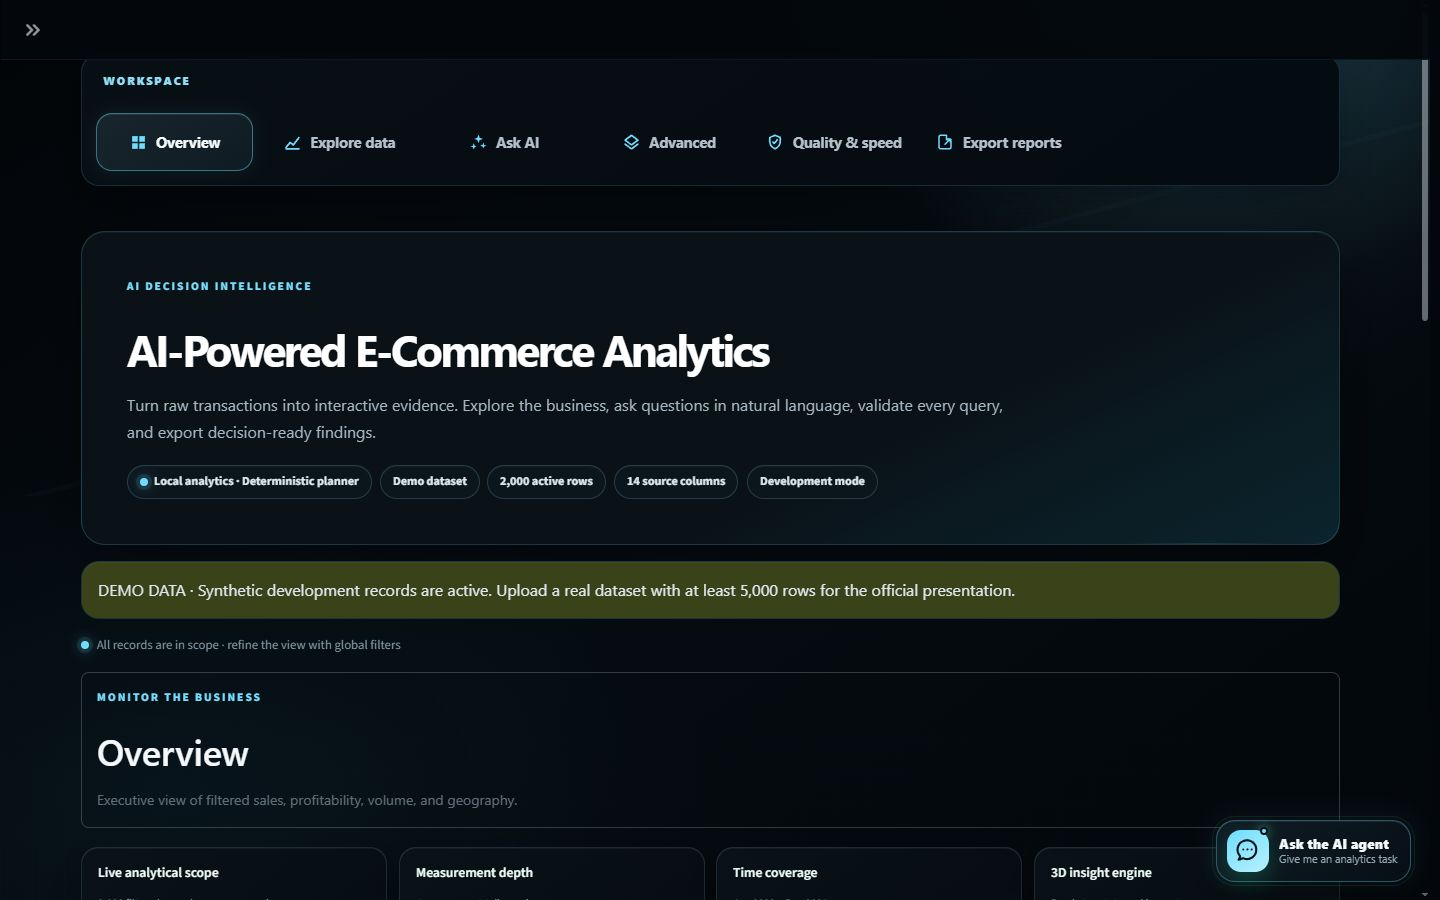
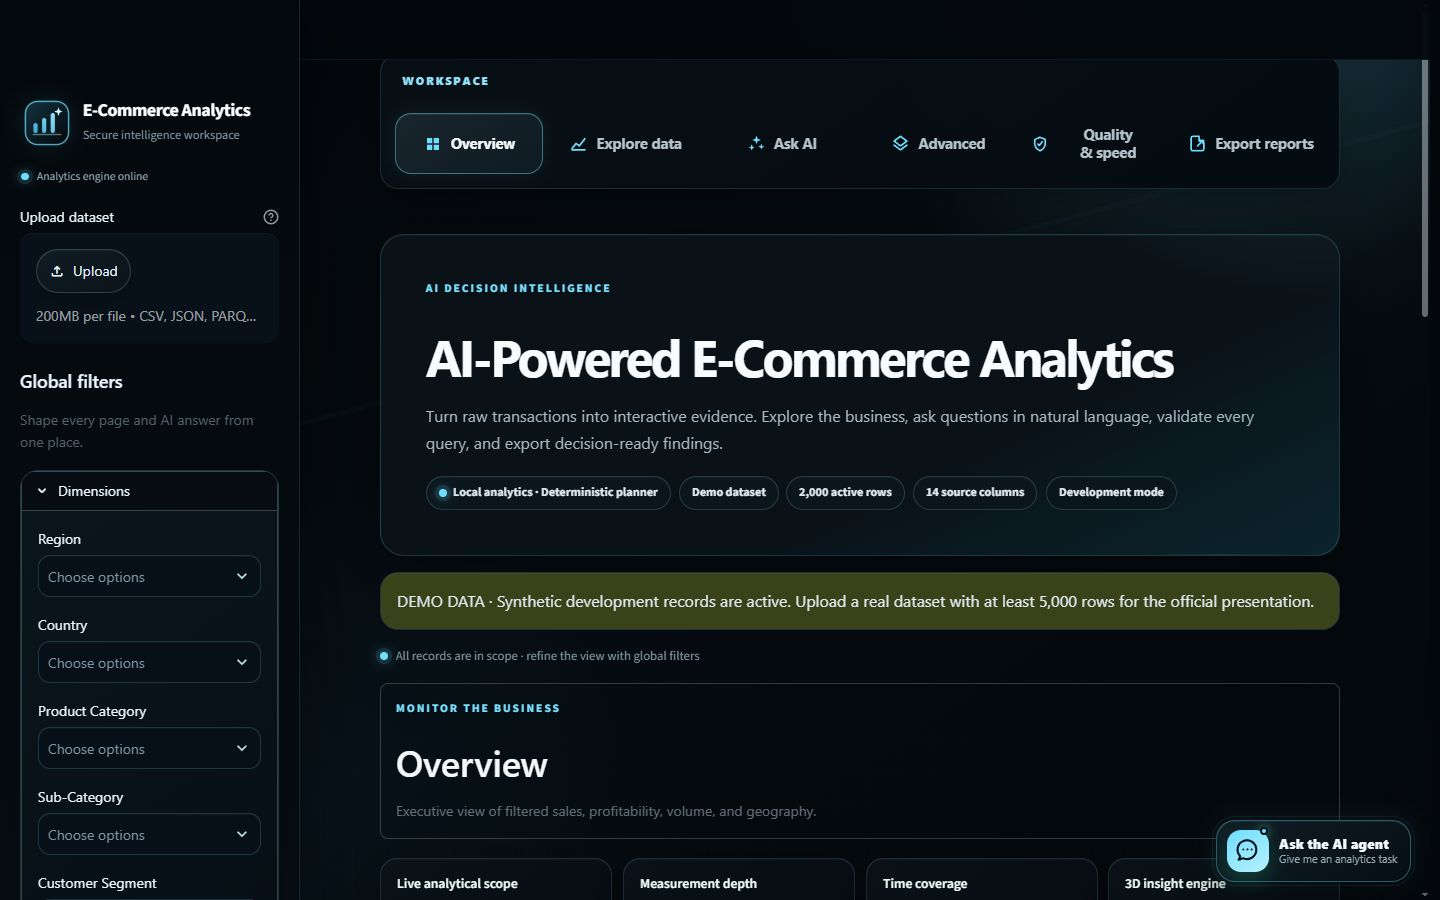
fix: complete midnight theme across app

diff --git a/tests/e2e/production.spec.ts b/tests/e2e/production.spec.ts
@@ -2,7 +2,7 @@ import { expect, test } from "@playwright/test";
 import { expectNoHorizontalOverflow, openApplication, selectSection } from "./helpers";
 
 test("deployed release is healthy and all workspaces are reachable", async ({ page }) => {
-  const expectedVersion = process.env.E2E_EXPECTED_VERSION || "v1.14.0";
+  const expectedVersion = process.env.E2E_EXPECTED_VERSION || "v1.14.1";
   const browserErrors: string[] = [];
   page.on("console", (message) => message.type() === "error" && browserErrors.push(message.text()));
   page.on("pageerror", (error) => browserErrors.push(error.message));

diff --git a/tests/e2e/app.spec.ts b/tests/e2e/app.spec.ts
@@ -124,7 +124,7 @@ test.describe("local production interface", () => {
     page.on("console", (message) => message.type() === "error" && browserErrors.push(message.text()));
     page.on("pageerror", (error) => browserErrors.push(error.message));
     const app = await openApplication(page);
-    await expect(app.locator('[data-app-version="v1.14.0"]')).toBeVisible();
+    await expect(app.locator('[data-app-version="v1.14.1"]')).toBeVisible();
     await expectBalancedNavigation(app);
     await expectNoHorizontalOverflow(app);
     for (const [name, heading] of [

diff --git a/src/ui/theme.py b/src/ui/theme.py
@@ -1686,6 +1686,77 @@ APP_CSS = r"""
     .agent-launcher-copy small { color:#94aab6; }
     .agent-launcher-status { border-color:#071018; background:#70ddff; }
 
+    /* Final theme normalization for forms, feedback, tables, and utility surfaces. */
+    [data-testid="stChatMessage"] {
+        border-color:rgba(112,221,255,.16);
+        background:linear-gradient(145deg,#0b161e,#081119);
+    }
+    [data-testid="stChatInput"] {
+        border-color:rgba(112,221,255,.34) !important;
+        background:#08131b !important;
+        box-shadow:0 16px 42px rgba(0,0,0,.32),0 0 20px rgba(112,221,255,.065);
+    }
+    .st-key-ai_task_form,
+    [data-testid="stForm"]:has(textarea[aria-label="Describe the task or outcome"]) {
+        border-color:rgba(112,221,255,.18) !important;
+        background:linear-gradient(145deg,#0b161e,#071018) !important;
+        box-shadow:inset 0 1px 0 rgba(255,255,255,.04),0 16px 34px rgba(0,0,0,.20);
+    }
+    .st-key-ai_task_form [data-testid="stTextAreaRootElement"],
+    [data-testid="stForm"]:has(textarea[aria-label="Describe the task or outcome"]) [data-testid="stTextAreaRootElement"] {
+        border-color:rgba(112,221,255,.22) !important;
+        background:#071018 !important;
+    }
+    .st-key-ai_task_form [data-testid="stTextAreaRootElement"]:focus-within,
+    [data-testid="stForm"]:has(textarea[aria-label="Describe the task or outcome"]) [data-testid="stTextAreaRootElement"]:focus-within {
+        border-color:rgba(112,221,255,.68) !important;
+        background:#0a1720 !important;
+        box-shadow:0 0 0 3px rgba(112,221,255,.11),0 0 22px rgba(112,221,255,.07);
+    }
+    textarea[aria-label="Describe the task or outcome"] { color:#eef8fb !important; }
+    .ai-scope-note {
+        border-color:rgba(112,221,255,.14);
+        color:#a8bac4;
+        background:rgba(55,139,169,.08);
+    }
+    .ai-scope-note span { color:#70ddff; filter:drop-shadow(0 0 6px rgba(112,221,255,.34)); }
+    .composer-guidance { color:#91a7b3; }
+    .agent-launcher::before { border-color:rgba(112,221,255,.16); }
+    .agent-launcher:focus-visible { outline-color:#8be5ff; }
+    .agent-launcher.active { border-color:rgba(112,221,255,.72); }
+    .agent-task-receipt {
+        border-color:rgba(112,221,255,.16);
+        background:#08131a;
+    }
+    .agent-task-receipt span { color:#aebfc8; }
+    .build-marker { color:#748e9b; }
+    .build-marker::before { background:#70ddff; box-shadow:0 0 10px rgba(112,221,255,.40); }
+    [data-testid="stToast"], [data-testid="stTooltipContent"], [role="tooltip"] {
+        color:#edf8fb !important;
+        border-color:rgba(112,221,255,.20) !important;
+        background:#0a151d !important;
+        box-shadow:0 14px 34px rgba(0,0,0,.42) !important;
+    }
+    [data-testid="stCodeBlock"], pre, code {
+        border-color:rgba(112,221,255,.14) !important;
+        color:#dcecf2 !important;
+        background:#071018 !important;
+    }
+    [data-testid="stTable"] {
+        border:1px solid rgba(112,221,255,.16);
+        border-radius:16px;
+        background:#081119;
+    }
+    [data-testid="stDataFrame"] [role="columnheader"] { background:#0e1d26 !important; color:#eaf5f8 !important; }
+    [data-testid="stDataFrame"] [role="gridcell"] { border-color:rgba(112,221,255,.08) !important; }
+    [data-baseweb="modal"], [data-testid="stDialog"] > div {
+        color:#eef8fb !important;
+        border-color:rgba(112,221,255,.20) !important;
+        background:#081219 !important;
+    }
+    [data-testid="stProgress"] [role="progressbar"] { background:#101c23 !important; }
+    [data-testid="stProgress"] [role="progressbar"] > div { background:linear-gradient(90deg,#2c94b6,#70ddff) !important; }
+
     /* Repaint-safe hover depth: no blur, filter, parallax, or perpetual motion. */
     @media (hover:hover) and (pointer:fine) {
         [data-testid="stMetric"]:hover,.mode-card:hover,.answer-card:hover,.ai-response-empty:hover,
@@ -1695,6 +1766,9 @@ APP_CSS = r"""
         }
         [data-testid="stPlotlyChart"]:hover { border-color:rgba(112,221,255,.36); box-shadow:0 20px 48px rgba(0,0,0,.36),0 0 18px rgba(112,221,255,.05); }
         .hero-pill:hover,.filter-pill:hover,.trust-pill:hover { border-color:rgba(112,221,255,.36); background:#10212a; }
+    }
+    @media (max-width:1400px) {
+        .block-container { max-width:100%; padding-left:1rem; padding-right:1rem; }
     }
     @media (max-width:900px) {
         .stApp::after { background-size:24px 24px; }

diff --git a/src/reporting/pdf_report.py b/src/reporting/pdf_report.py
@@ -14,8 +14,8 @@ from reportlab.platypus import Image, KeepTogether, LongTable, PageBreak, Paragr
 from src.models import ReportPayload
 from src.utils.exceptions import ExportError
 
-NAVY = colors.HexColor("#0B2545")
-TEAL = colors.HexColor("#0F766E")
+NAVY = colors.HexColor("#081923")
+TEAL = colors.HexColor("#258CAF")
 MUTED = colors.HexColor("#64748B")
 
 
@@ -62,7 +62,7 @@ def generate_pdf_report(payload: ReportPayload) -> bytes:
             rows.extend([[Paragraph(_safe(value)[:140], body) for value in row] for row in data.astype(object).where(data.notna(), "").itertuples(index=False, name=None)])
             widths = [6.5 * inch / len(data.columns)] * len(data.columns)
             result_table = LongTable(rows, colWidths=widths, repeatRows=1, hAlign="LEFT")
-            result_table.setStyle(TableStyle([("BACKGROUND", (0, 0), (-1, 0), colors.HexColor("#DDECEB")), ("GRID", (0, 0), (-1, -1), 0.3, colors.HexColor("#CBD5E1")), ("VALIGN", (0, 0), (-1, -1), "MIDDLE"), ("LEFTPADDING", (0, 0), (-1, -1), 5), ("RIGHTPADDING", (0, 0), (-1, -1), 5), ("TOPPADDING", (0, 0), (-1, -1), 4), ("BOTTOMPADDING", (0, 0), (-1, -1), 4)]))
+            result_table.setStyle(TableStyle([("BACKGROUND", (0, 0), (-1, 0), colors.HexColor("#DDF3FA")), ("GRID", (0, 0), (-1, -1), 0.3, colors.HexColor("#CBD5E1")), ("VALIGN", (0, 0), (-1, -1), "MIDDLE"), ("LEFTPADDING", (0, 0), (-1, -1), 5), ("RIGHTPADDING", (0, 0), (-1, -1), 5), ("TOPPADDING", (0, 0), (-1, -1), 4), ("BOTTOMPADDING", (0, 0), (-1, -1), 4)]))
             story.append(result_table)
         else:
             story.append(Paragraph("No rows matched the query.", body))

diff --git a/tests/test_hardening.py b/tests/test_hardening.py
@@ -87,6 +87,10 @@ def test_midnight_analytics_theme_is_complete_and_native_widgets_match():
     assert config["theme"]["primaryColor"] == "#70DDFF"
     assert config["theme"]["backgroundColor"] == "#03070B"
     assert config["theme"]["secondaryBackgroundColor"] == "#081119"
+    assert "finalthemenormalization" in compact
+    assert '.st-key-ai_task_form' in APP_CSS
+    assert '[data-testid="stTooltipContent"]' in APP_CSS
+    assert '[data-testid="stProgress"]' in APP_CSS
 
 
 def test_streamlit_and_container_security_defaults():

diff --git a/tests/test_version.py b/tests/test_version.py
@@ -12,8 +12,8 @@ ROOT = Path(__file__).resolve().parents[1]
 
 def test_release_version_is_consistent():
     project = tomllib.loads((ROOT / "pyproject.toml").read_text(encoding="utf-8"))
-    assert APP_VERSION == "1.14.0"
-    assert APP_RELEASE == "v1.14.0"
+    assert APP_VERSION == "1.14.1"
+    assert APP_RELEASE == "v1.14.1"
     assert project["project"]["version"] == APP_VERSION
     assert f"version: {APP_VERSION}" in (ROOT / "CITATION.cff").read_text(encoding="utf-8")
 

diff --git a/src/ui/ai_assistant.py b/src/ui/ai_assistant.py
@@ -526,7 +526,7 @@ def render(
     memory = ConversationMemory(st.session_state.get("conversation", []))
     pending = st.session_state.pop("pending_ai_question", None)
 
-    capability_panel, response_panel = st.columns([0.38, 0.62], gap="large", vertical_alignment="top")
+    capability_panel, response_panel = st.columns([0.42, 0.58], gap="medium", vertical_alignment="top")
     requested_question: str | None = pending
 
     with capability_panel:

diff --git a/src/reporting/word_report.py b/src/reporting/word_report.py
@@ -181,7 +181,7 @@ def generate_word_report(payload: ReportPayload) -> bytes:
         else:
             result_table.rows[0].cells[0].text = "No result columns"
         for cell in result_table.rows[0].cells:
-            _set_cell_shading(cell, "DDECEB")
+            _set_cell_shading(cell, "DDF3FA")
             for run in cell.paragraphs[0].runs:
                 run.bold = True
         column_count = max(len(data.columns), 1)

diff --git a/tests/test_brand.py b/tests/test_brand.py
@@ -17,6 +17,10 @@ def test_minimal_brand_icon_is_accessible_svg():
     assert 'viewBox="0 0 64 64"' in svg
     assert "<title" in svg and "<desc" in svg
     assert len(svg.encode("utf-8")) < 4_000
+    assert "#70DDFF" in svg
+    assert "#39A9D2" in svg
+    assert "#7FFFE1" not in svg
+    assert "#24B884" not in svg
 
 
 def test_inline_brand_icon_escapes_css_class():

diff --git a/config/version.py b/config/version.py
@@ -1,5 +1,5 @@
 """Single source of truth for application release metadata."""
 
-APP_VERSION = "1.14.0"
+APP_VERSION = "1.14.1"
 APP_RELEASE = f"v{APP_VERSION}"
 BUILD_CHANNEL = "production"

diff --git a/README.md b/README.md
@@ -4,11 +4,11 @@
 
 [![Python 3.11](https://img.shields.io/badge/Python-3.11-3776AB?logo=python&logoColor=white)](https://www.python.org/)
 [![Streamlit](https://img.shields.io/badge/Streamlit-1.61-FF4B4B?logo=streamlit&logoColor=white)](https://streamlit.io/)
-[![License: MIT](https://img.shields.io/badge/License-MIT-0F766E.svg)](LICENSE)
+[![License: MIT](https://img.shields.io/badge/License-MIT-258CAF.svg)](LICENSE)
 [![GitHub repository](https://img.shields.io/badge/GitHub-Public-22C55E?logo=github)](https://github.com/Monokayser/ai-ecommerce-analytics)
 [![Production CI](https://github.com/Monokayser/ai-ecommerce-analytics/actions/workflows/ci.yml/badge.svg)](https://github.com/Monokayser/ai-ecommerce-analytics/actions/workflows/ci.yml)
-[![Build v1.14.0](https://img.shields.io/badge/build-v1.14.0-70DDFF)](https://beah4wbufhqjqgzanubteb.streamlit.app/)
-[![Live application](https://img.shields.io/badge/Live%20App-Open-39E6BD?logo=streamlit&logoColor=white)](https://beah4wbufhqjqgzanubteb.streamlit.app/)
+[![Build v1.14.1](https://img.shields.io/badge/build-v1.14.1-70DDFF)](https://beah4wbufhqjqgzanubteb.streamlit.app/)
+[![Live application](https://img.shields.io/badge/Live%20App-Open-70DDFF?logo=streamlit&logoColor=081119)](https://beah4wbufhqjqgzanubteb.streamlit.app/)
 
 A production-style Streamlit capstone that turns e-commerce files into secure, filter-aware dashboards, natural-language analytics, advanced analysis, and downloadable reports. It works immediately without an API key and upgrades to real-time Gemini planning when a free Gemini API key is configured.
 
@@ -16,7 +16,7 @@ Current verification: 119 Python tests passing with 87.21% measured coverage, de
 
 ![AI-Powered E-Commerce Analytics dashboard with the responsive Midnight Analytics interface](docs/assets/midnight-analytics-dashboard.png)
 
-![Interactive 3D profit terrain showing mean profitability across sales and discount bands](docs/assets/aurora-3d-profit-terrain.png)
+![Interactive data exploration workspace using the matched Midnight Analytics chart theme](docs/assets/midnight-exploration.png)
 
 ![AI Assistant agent console showing capability presets, natural-language analytics, the validated five-stage pipeline, and verified response exports](docs/assets/ai-assistant-agent-console.png)
 
@@ -151,7 +151,7 @@ Because the repository is public, Streamlit Community Cloud makes the deployed a
 
 Cross-browser behavior, responsive breakpoints, accessibility controls, performance budgets, container hardening, and scaling guidance are documented in [docs/production_hardening.md](docs/production_hardening.md).
 
-Production uses build `v1.14.0`. The footer exposes a machine-verifiable `data-app-version` marker used by the six-hour scheduled smoke check. See [production readiness](docs/production_readiness.md), [deployment and rollback](docs/deployment.md), the [Midnight Analytics design system](docs/ui-design-system.md), and the [v1.14.0 notes](docs/release-v1.14.0.md).
+Production uses build `v1.14.1`. The footer exposes a machine-verifiable `data-app-version` marker used by the six-hour scheduled smoke check. See [production readiness](docs/production_readiness.md), [deployment and rollback](docs/deployment.md), the [Midnight Analytics design system](docs/ui-design-system.md), and the [v1.14.1 notes](docs/release-v1.14.1.md).
 
 ```powershell
 docker build -t ai-ecommerce-analytics .

diff --git a/docs/production_readiness.md b/docs/production_readiness.md
@@ -1,8 +1,8 @@
-# Production Readiness — v1.14.0
+# Production Readiness — v1.14.1
 
 ## Release scope
 
-Version `v1.14.0` preserves the six-section public Streamlit Community Cloud application while introducing the researched Midnight Analytics theme. The release maintains the single version source, machine-verifiable build marker, stable Gemini 3.6 Flash configuration, deterministic fallback, responsive and accessibility automation, measurable performance evidence, active CI, non-root container verification, and scheduled production smoke checks.
+Version `v1.14.1` completes the Midnight Analytics theme across the six-section public Streamlit application, including the product identity, AI composer, feedback surfaces, utility states, report styling, and repository presentation. The release maintains the single version source, machine-verifiable build marker, stable Gemini 3.6 Flash configuration, deterministic fallback, responsive and accessibility automation, measurable performance evidence, active CI, non-root container verification, and scheduled production smoke checks.
 
 ## Acceptance evidence
 
